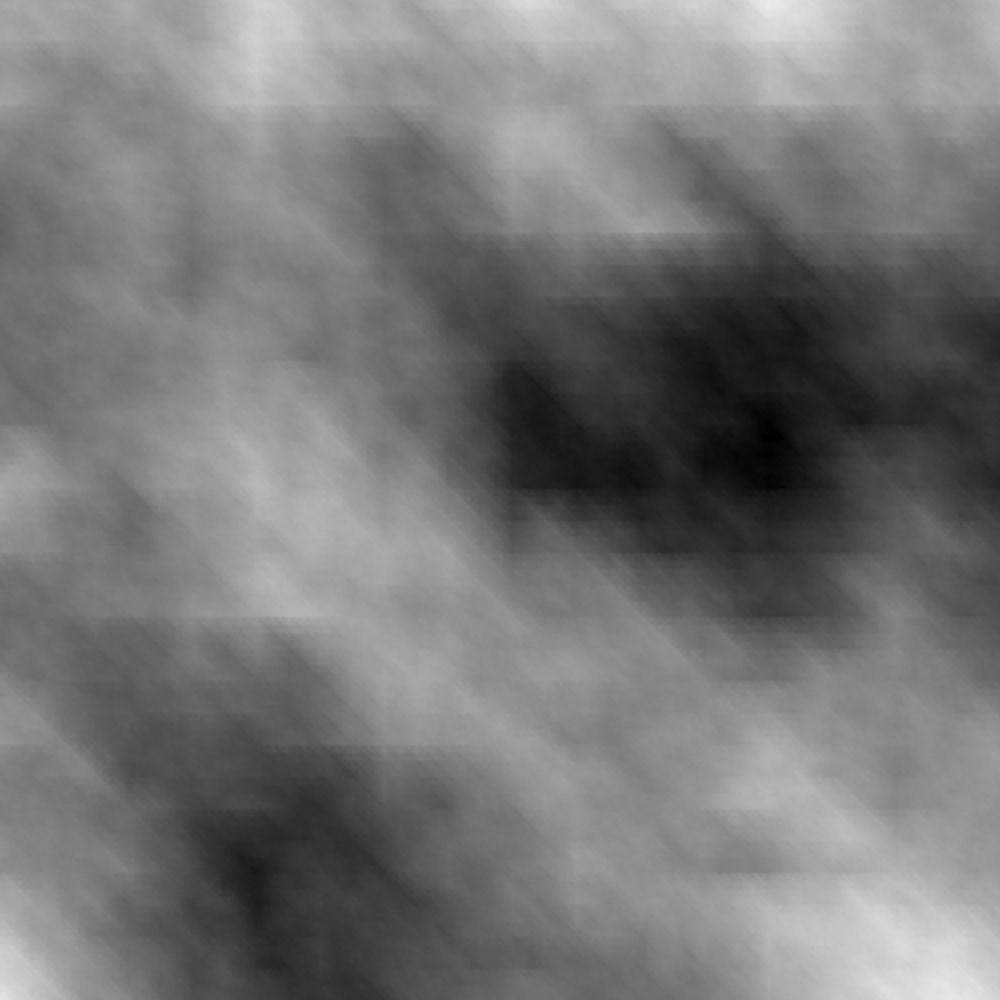
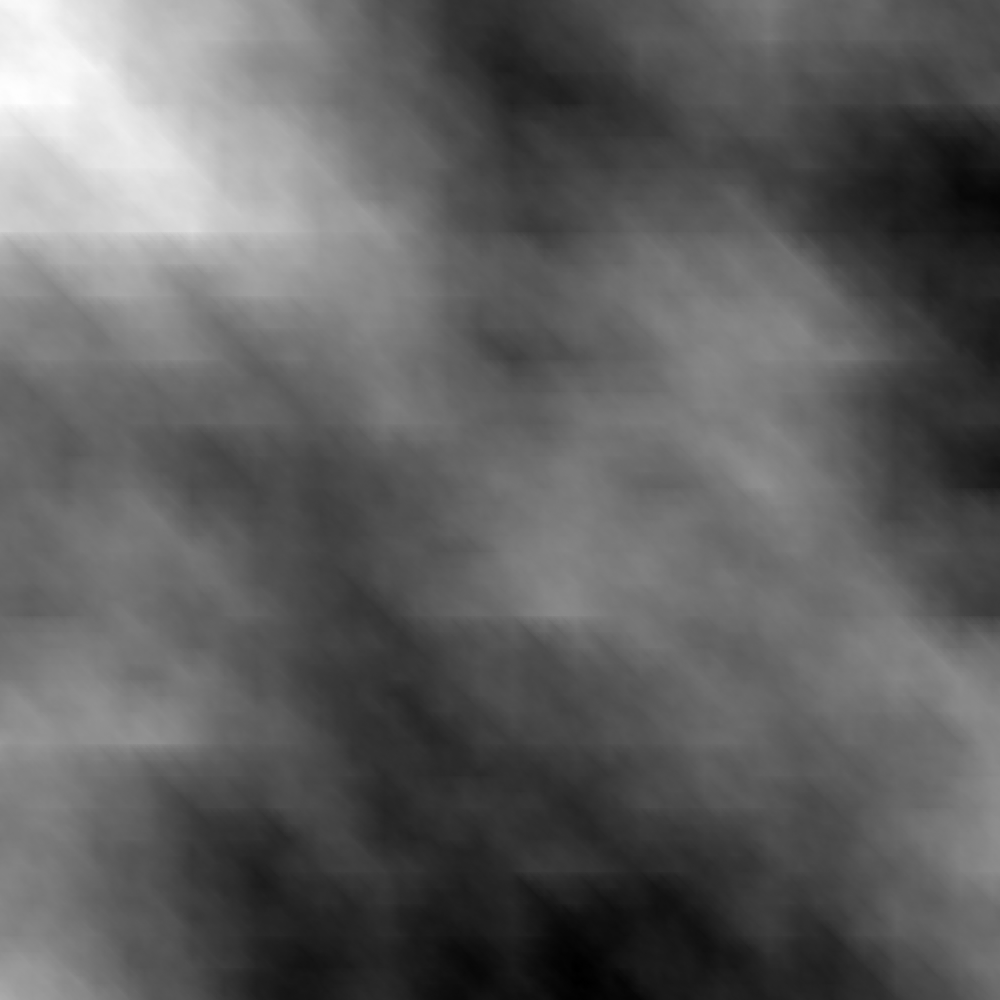
fixed values in CalculateColor(); changed ColorMap

diff --git a/Assets/Scripts/GenerateColor.cs b/Assets/Scripts/GenerateColor.cs
@@ -41,7 +41,7 @@ public class GenerateColor : MonoBehaviour
     // Pathlocations
     string heightmapPath = ".//Assets//Scripts//image//heightmap.png";
     string moisturemapPath = ".//Assets//Scripts//image//moisturemap.png";
-    string colorLandPath = ".//Assets//Scripts//image//colormap_land.png";
+    string colorLandPath = ".//Assets//Scripts//image//colormap_land_1.png";
     string colorWaterPath = ".//Assets//Scripts//image//colormap_water.png";
 
     // Start is called before the first frame update
@@ -99,8 +99,14 @@ public class GenerateColor : MonoBehaviour
         {
             check = GetArrayMoistureMap();
         } while (check != true);
-        Renderer renderer = GetComponent<Renderer>();
-        renderer.material.mainTexture = CalculateColor();
+        //CalculateHeights();
+        CalculateColor();
+    }
+
+    void Update()
+    {
+        //Renderer renderer = GetComponent<Renderer>();
+        //renderer.material.mainTexture = CalculateColor();
     }
 
     void calculate_biggest_Quad()
@@ -277,7 +283,7 @@ public class GenerateColor : MonoBehaviour
             }
         }
 
-        //definierte Pixel anwenden
+        // definierte Pixel anwenden
         texture.Apply();
 
         // connect texture to material of GameObject this script is attached to
@@ -330,7 +336,7 @@ public class GenerateColor : MonoBehaviour
                 texture.SetPixel(x, y, color);
             }
         }
-
+        // Apply the changes to the texture and upload the updated texture to the GPU
         texture.Apply();
 
         // generate image from Texture
@@ -376,7 +382,12 @@ public class GenerateColor : MonoBehaviour
         return true;
     }
 
-    Texture2D CalculateColor()
+    void CalculateHeights()
+    {
+        
+    }
+
+    void CalculateColor()
     {
         Texture2D texture = new Texture2D(width, height, TextureFormat.ARGB32, false);
         Texture2D colormap_land = new Texture2D(1, 1);
@@ -391,27 +402,29 @@ public class GenerateColor : MonoBehaviour
         {
             for (int j = 0; j < this.height; j++)
             {
-                float x = moistureMap[i, j];
-                float y = heightMap[i, j];
+                float x = 1 - moistureMap[i, j];
+                float y = 1 - heightMap[i, j];
+                //float liquidThresholdScale = 0.6f;
+                //float liquidThreshold =  1 - liquidThresholdScale;
 
-                if (y <= 0.6)
+                if (y >= 0.4)
                 {
-                    x = (((1 - x) * 100) * colormap_land.width) / 100;
-                    y = ((((float)0.6 - (y - (float)0.4)) * 100) * colormap_land.height) / 100;
+                    x = (((x * 100) * colormap_land.width) / 100);
+                    y = ((((100 * (y-(float)0.4)) / (float)0.6) * colormap_land.height) / 100);
                     Color color = colormap_land.GetPixel((int)x, (int)y);
                     texture.SetPixel(i, j, color);
                 }
                 else
                 {
-                    x = (((1 - x) * 100) * colormap_water.width) / 100;
-                    y = ((((float)0.4 - y) * 100) * colormap_water.height) / 100;
+                    x = (((x * 100) * colormap_water.width) / 100);
+                    y = (((y * 100) * colormap_water.height) / 100);
                     Color color = colormap_water.GetPixel((int)x, (int)y);
                     texture.SetPixel(i, j, color);
                 }
             }
         }
-
+        // Apply the changes to the texture and upload the updated texture to the GPU
         texture.Apply();
-        return texture;
+        GetComponent<MeshRenderer>().material.mainTexture = texture;
     }
 }
